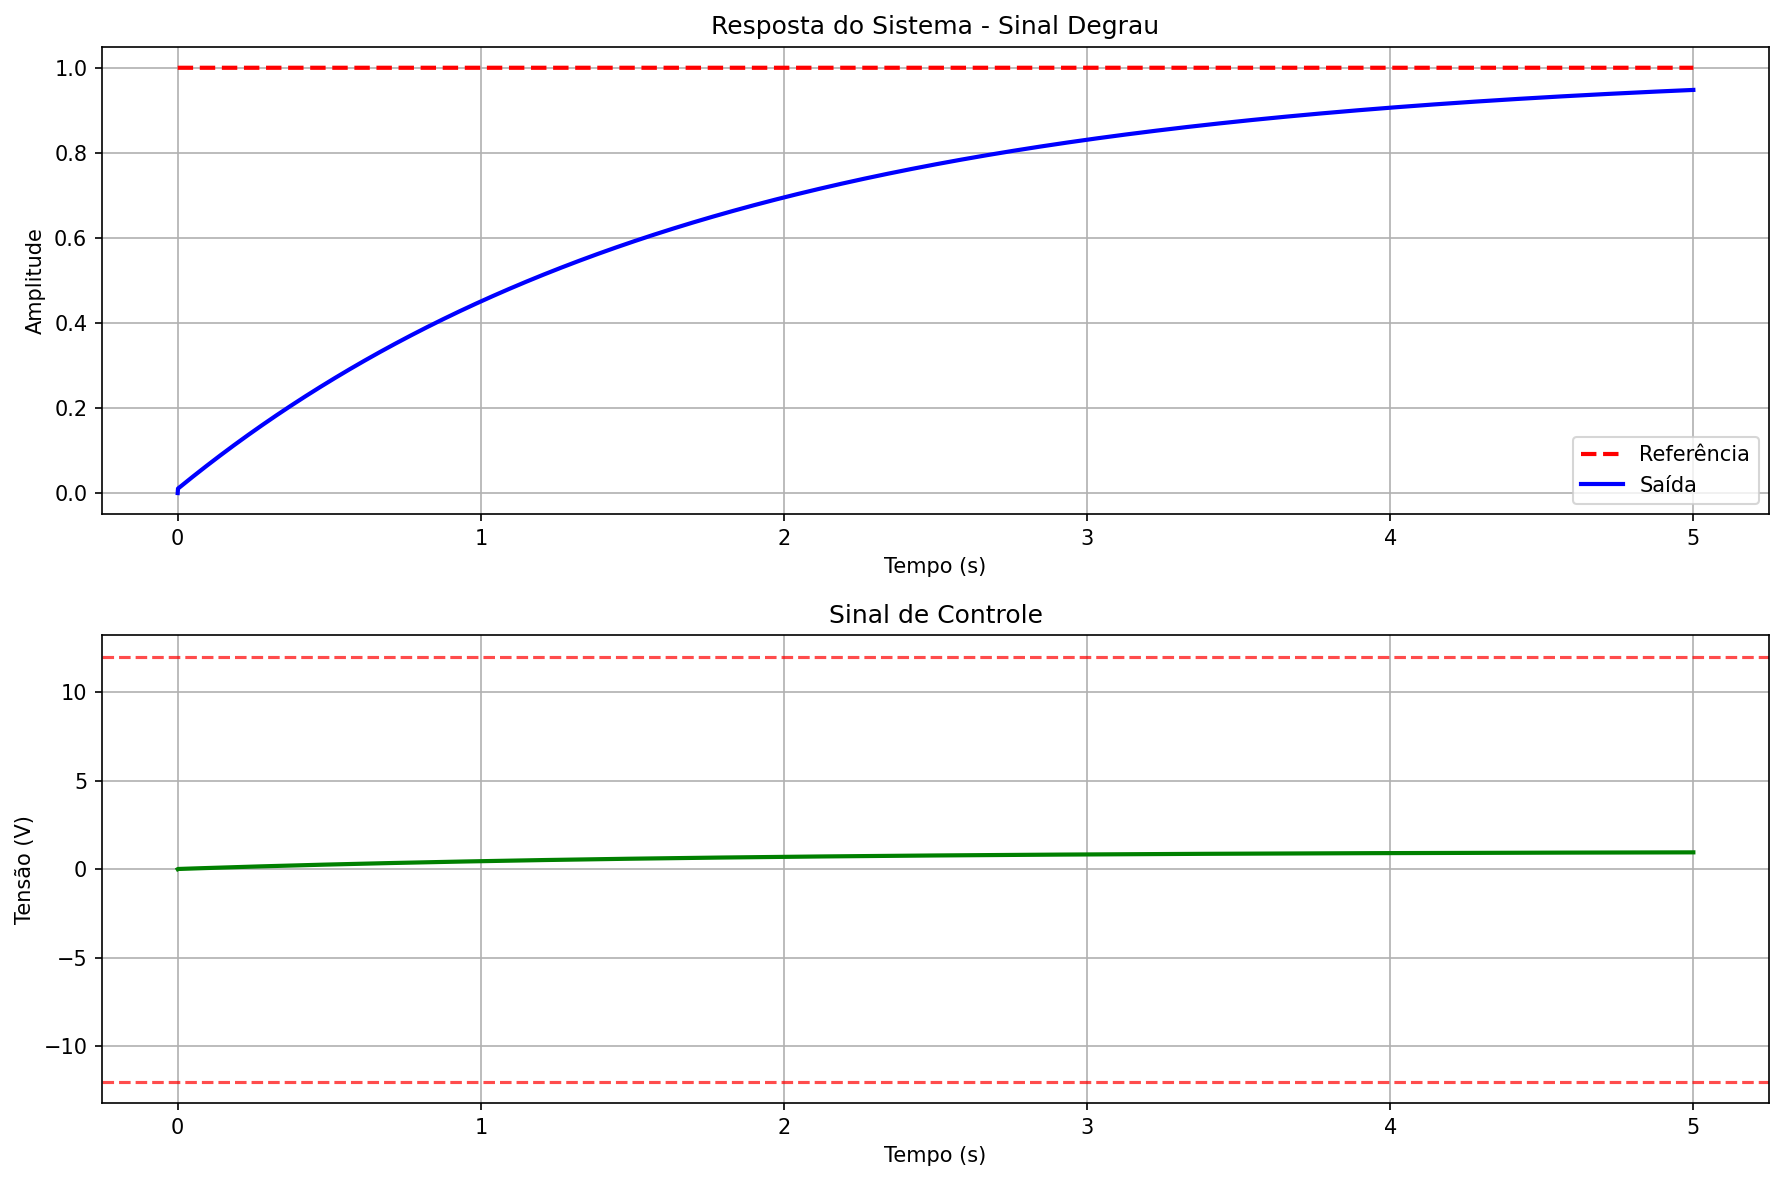
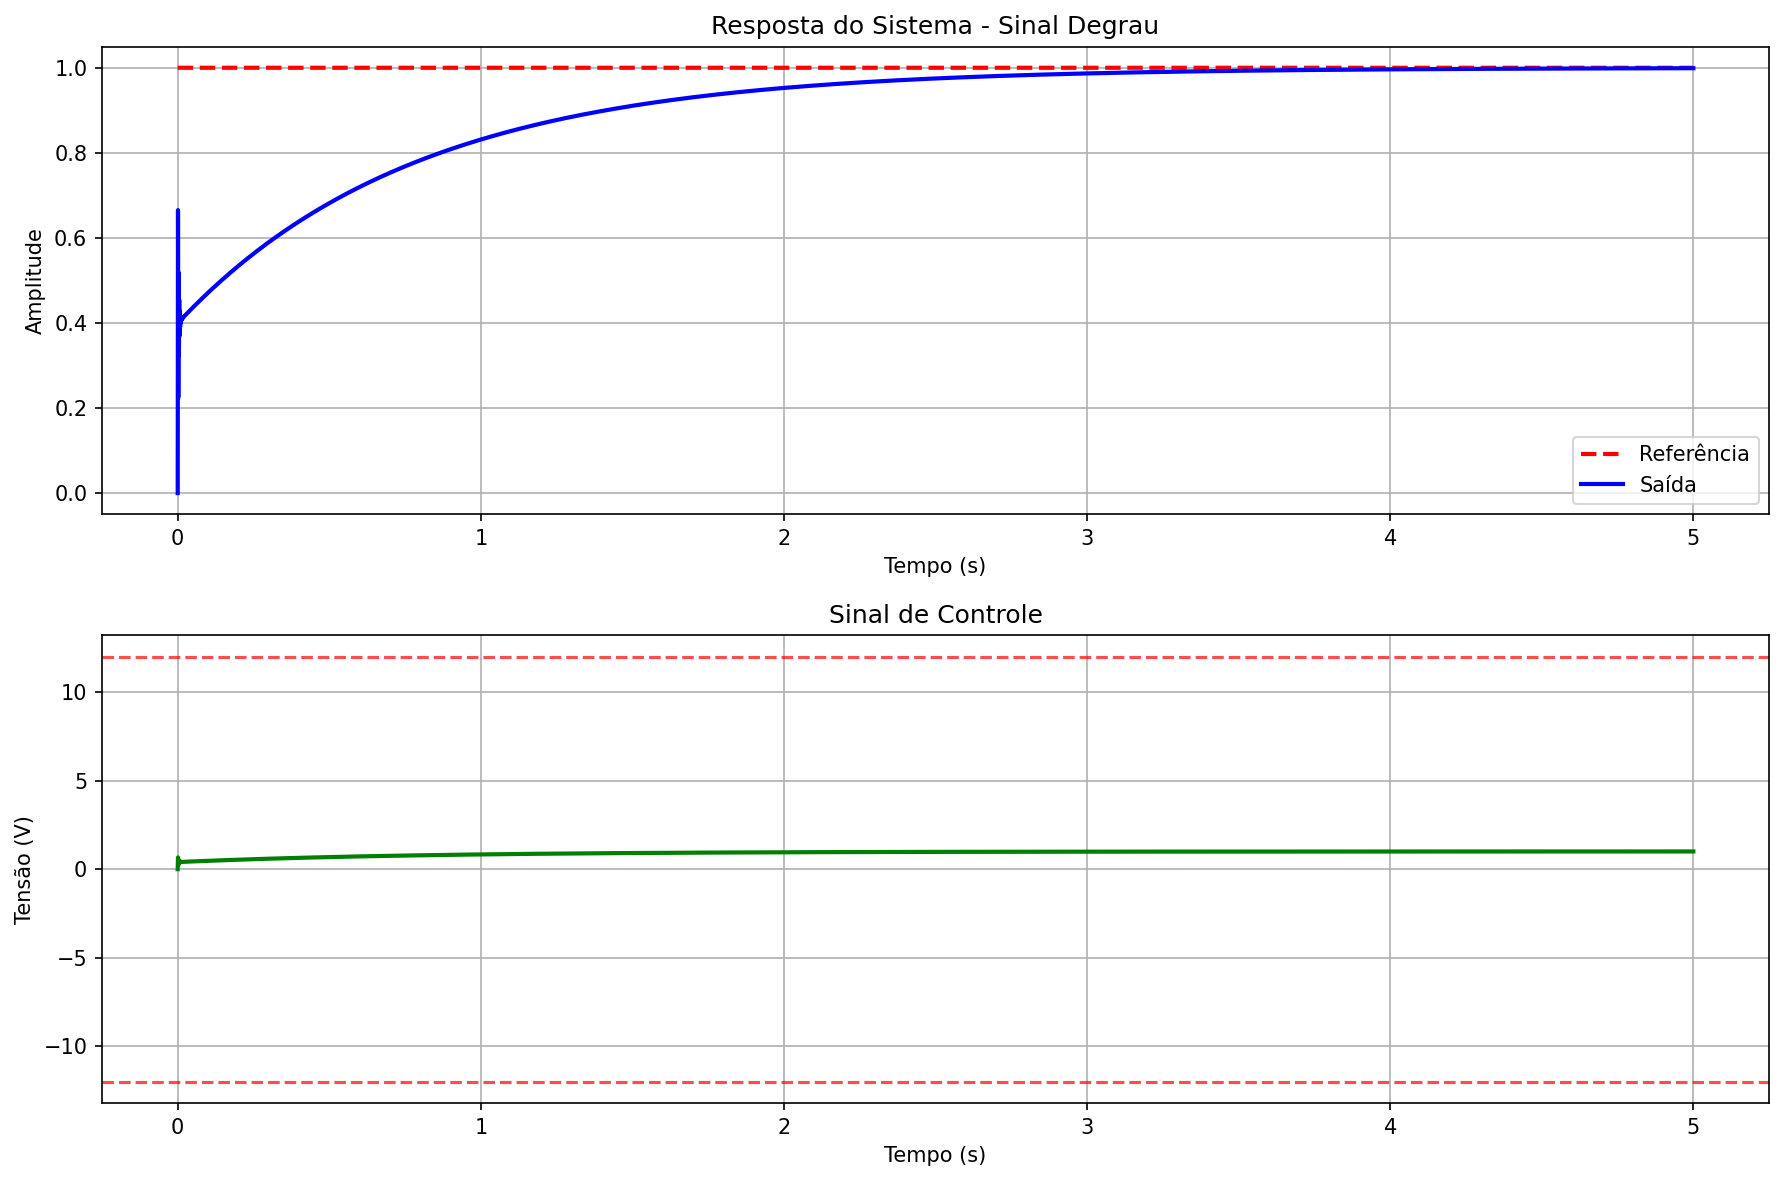
[MOD]plots

diff --git a/codes/otimizacao/pid_TF_PSO.py b/codes/otimizacao/pid_TF_PSO.py
@@ -38,9 +38,17 @@ def calcular_funcao_objetivo(kp, ki, kd):
         erro = torque_ref - y
         erro_quad = np.mean(erro**2)
         
-        penalizacao_kd = 10.0 if kd < 0.1 else 0.0
+        penalizacao_kp = 30.0 if kp < 0.5 else 0.0
+        penalizacao_kd = 50.0 if kd < 0.5 else 0.0
         
-        return erro_quad + penalizacao_kd
+        erro_max = np.max(np.abs(erro))
+        penalizacao_overshoot = 2.0 * erro_max if erro_max > 1.2 else 0.0
+        
+        penalizacao_total = (penalizacao_kd + 
+                            penalizacao_kp +
+                    penalizacao_overshoot)
+
+        return erro_quad + penalizacao_total
     except:
         return float('inf')
 
